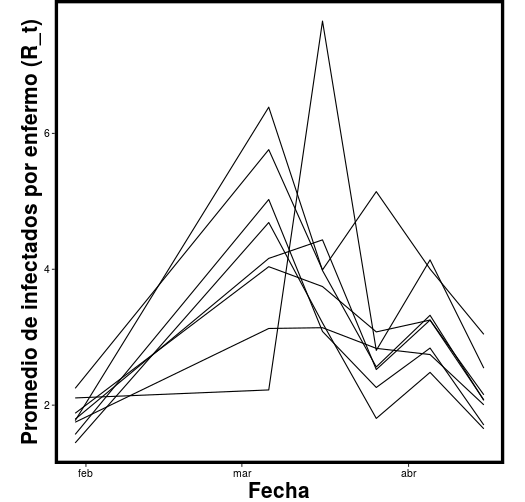
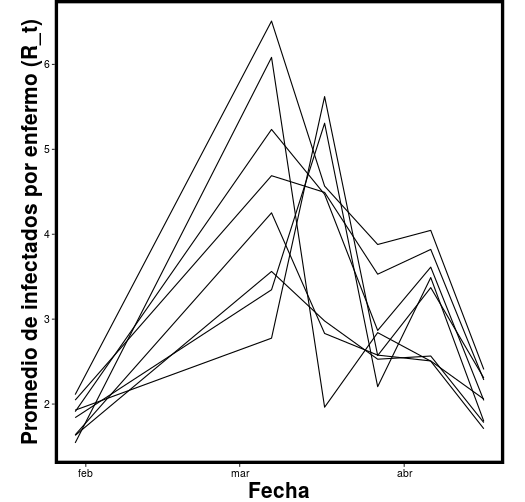
Actualización 2020-05-10 lenta

diff --git a/etiquetas/estados/index.html b/etiquetas/estados/index.html
@@ -352,8 +352,8 @@
             <h3>No se ha detenido la epidemia</h3>
             <p class="lead">
               <p>Las epidemias avanzan porque la enfermedad se transmite de una persona a otra. La R efectiva (R_t) es el número promedio de gente contagiada por cada persona que se enferma. Si la R efectiva es más de uno los casos aumentan, mientras que si la R efectiva es menos de uno cada vez hay menos casos.</p>
-<p>Esta gráfica muestra como la R efectiva se ha comportado en los estados con al menos 500 casos confirmados. La línea más gruesa muestra el mejor estimado (mediana) y el área sombreada representa el rango más probable de valores (intervalo modal de 90%). Los estimados se recalculan cada noche para todas las fechas con los datos más recientes.</p>
-<p>De acuerdo a esta métrica, Baja California ha sido la entidad más exitosa en mitigar la epidemia, consistente con lo que vemos en sus <a href="../../municipios#top_zm_casos">zonas metropolitanas</a>. En otras entidades ha disminuido pero mucho menos de lo necesario.</p>
+<p>Lograr una tasa de contagios por contagiado de menos de uno es la única manera en que la cantidad de casos disminuya. En otras palabras, un R efectiva menor a uno indica que se pasó el pico epidémico. De acuerdo a esta métrica, varios estados han mostrado una disminución en el número de contagios por caso, pero en ningún caso la R efeciva es menor a uno, indicando que no se ha pasado el pico epidémico.</p>
+<p>Esta gráfica muestra la R efectiva en estados con al menos 500 casos confirmados. La línea más gruesa muestra el mejor estimado (mediana) y el área sombreada representa el rango más probable de valores (intervalo modal de 90%). Los estimados se actualizan cada noche con los datos más recientes. Debido al <a href="../../clinicos#">retraso</a> en la detección de casos aunque sólo podemos estimar la R efectiva hasta hace 5 días.</p>
 <p>Este análisis se basa en <a href="https://rt.live/" target="_blank">rt.live</a> que calcula R_t para EEUU. El código para estimar la R efectiva en México está <a href="https://github.com/coronamex/visualizando/blob/master/estados/rt.live.ipynb" target="_blank">aquí</a> y los estimados <a href="https://raw.githubusercontent.com/coronamex/visualizando/master/estimados/rt_live_estimados.csv" target="_blank"> aquí</a>.</p>
             </p>
               

diff --git a/etiquetas/estimados/index.html b/etiquetas/estimados/index.html
@@ -329,8 +329,8 @@
             <h3>No se ha detenido la epidemia</h3>
             <p class="lead">
               <p>Las epidemias avanzan porque la enfermedad se transmite de una persona a otra. La R efectiva (R_t) es el número promedio de gente contagiada por cada persona que se enferma. Si la R efectiva es más de uno los casos aumentan, mientras que si la R efectiva es menos de uno cada vez hay menos casos.</p>
-<p>Esta gráfica muestra como la R efectiva se ha comportado en los estados con al menos 500 casos confirmados. La línea más gruesa muestra el mejor estimado (mediana) y el área sombreada representa el rango más probable de valores (intervalo modal de 90%). Los estimados se recalculan cada noche para todas las fechas con los datos más recientes.</p>
-<p>De acuerdo a esta métrica, Baja California ha sido la entidad más exitosa en mitigar la epidemia, consistente con lo que vemos en sus <a href="../../municipios#top_zm_casos">zonas metropolitanas</a>. En otras entidades ha disminuido pero mucho menos de lo necesario.</p>
+<p>Lograr una tasa de contagios por contagiado de menos de uno es la única manera en que la cantidad de casos disminuya. En otras palabras, un R efectiva menor a uno indica que se pasó el pico epidémico. De acuerdo a esta métrica, varios estados han mostrado una disminución en el número de contagios por caso, pero en ningún caso la R efeciva es menor a uno, indicando que no se ha pasado el pico epidémico.</p>
+<p>Esta gráfica muestra la R efectiva en estados con al menos 500 casos confirmados. La línea más gruesa muestra el mejor estimado (mediana) y el área sombreada representa el rango más probable de valores (intervalo modal de 90%). Los estimados se actualizan cada noche con los datos más recientes. Debido al <a href="../../clinicos#">retraso</a> en la detección de casos aunque sólo podemos estimar la R efectiva hasta hace 5 días.</p>
 <p>Este análisis se basa en <a href="https://rt.live/" target="_blank">rt.live</a> que calcula R_t para EEUU. El código para estimar la R efectiva en México está <a href="https://github.com/coronamex/visualizando/blob/master/estados/rt.live.ipynb" target="_blank">aquí</a> y los estimados <a href="https://raw.githubusercontent.com/coronamex/visualizando/master/estimados/rt_live_estimados.csv" target="_blank"> aquí</a>.</p>
             </p>
               

diff --git a/etiquetas/modelo/index.html b/etiquetas/modelo/index.html
@@ -402,8 +402,8 @@
             <h3>No se ha detenido la epidemia</h3>
             <p class="lead">
               <p>Las epidemias avanzan porque la enfermedad se transmite de una persona a otra. La R efectiva (R_t) es el número promedio de gente contagiada por cada persona que se enferma. Si la R efectiva es más de uno los casos aumentan, mientras que si la R efectiva es menos de uno cada vez hay menos casos.</p>
-<p>Esta gráfica muestra como la R efectiva se ha comportado en los estados con al menos 500 casos confirmados. La línea más gruesa muestra el mejor estimado (mediana) y el área sombreada representa el rango más probable de valores (intervalo modal de 90%). Los estimados se recalculan cada noche para todas las fechas con los datos más recientes.</p>
-<p>De acuerdo a esta métrica, Baja California ha sido la entidad más exitosa en mitigar la epidemia, consistente con lo que vemos en sus <a href="../../municipios#top_zm_casos">zonas metropolitanas</a>. En otras entidades ha disminuido pero mucho menos de lo necesario.</p>
+<p>Lograr una tasa de contagios por contagiado de menos de uno es la única manera en que la cantidad de casos disminuya. En otras palabras, un R efectiva menor a uno indica que se pasó el pico epidémico. De acuerdo a esta métrica, varios estados han mostrado una disminución en el número de contagios por caso, pero en ningún caso la R efeciva es menor a uno, indicando que no se ha pasado el pico epidémico.</p>
+<p>Esta gráfica muestra la R efectiva en estados con al menos 500 casos confirmados. La línea más gruesa muestra el mejor estimado (mediana) y el área sombreada representa el rango más probable de valores (intervalo modal de 90%). Los estimados se actualizan cada noche con los datos más recientes. Debido al <a href="../../clinicos#">retraso</a> en la detección de casos aunque sólo podemos estimar la R efectiva hasta hace 5 días.</p>
 <p>Este análisis se basa en <a href="https://rt.live/" target="_blank">rt.live</a> que calcula R_t para EEUU. El código para estimar la R efectiva en México está <a href="https://github.com/coronamex/visualizando/blob/master/estados/rt.live.ipynb" target="_blank">aquí</a> y los estimados <a href="https://raw.githubusercontent.com/coronamex/visualizando/master/estimados/rt_live_estimados.csv" target="_blank"> aquí</a>.</p>
             </p>
               

diff --git a/etiquetas/serie_tiempo/index.html b/etiquetas/serie_tiempo/index.html
@@ -500,8 +500,8 @@
             <h3>No se ha detenido la epidemia</h3>
             <p class="lead">
               <p>Las epidemias avanzan porque la enfermedad se transmite de una persona a otra. La R efectiva (R_t) es el número promedio de gente contagiada por cada persona que se enferma. Si la R efectiva es más de uno los casos aumentan, mientras que si la R efectiva es menos de uno cada vez hay menos casos.</p>
-<p>Esta gráfica muestra como la R efectiva se ha comportado en los estados con al menos 500 casos confirmados. La línea más gruesa muestra el mejor estimado (mediana) y el área sombreada representa el rango más probable de valores (intervalo modal de 90%). Los estimados se recalculan cada noche para todas las fechas con los datos más recientes.</p>
-<p>De acuerdo a esta métrica, Baja California ha sido la entidad más exitosa en mitigar la epidemia, consistente con lo que vemos en sus <a href="../../municipios#top_zm_casos">zonas metropolitanas</a>. En otras entidades ha disminuido pero mucho menos de lo necesario.</p>
+<p>Lograr una tasa de contagios por contagiado de menos de uno es la única manera en que la cantidad de casos disminuya. En otras palabras, un R efectiva menor a uno indica que se pasó el pico epidémico. De acuerdo a esta métrica, varios estados han mostrado una disminución en el número de contagios por caso, pero en ningún caso la R efeciva es menor a uno, indicando que no se ha pasado el pico epidémico.</p>
+<p>Esta gráfica muestra la R efectiva en estados con al menos 500 casos confirmados. La línea más gruesa muestra el mejor estimado (mediana) y el área sombreada representa el rango más probable de valores (intervalo modal de 90%). Los estimados se actualizan cada noche con los datos más recientes. Debido al <a href="../../clinicos#">retraso</a> en la detección de casos aunque sólo podemos estimar la R efectiva hasta hace 5 días.</p>
 <p>Este análisis se basa en <a href="https://rt.live/" target="_blank">rt.live</a> que calcula R_t para EEUU. El código para estimar la R efectiva en México está <a href="https://github.com/coronamex/visualizando/blob/master/estados/rt.live.ipynb" target="_blank">aquí</a> y los estimados <a href="https://raw.githubusercontent.com/coronamex/visualizando/master/estimados/rt_live_estimados.csv" target="_blank"> aquí</a>.</p>
             </p>
               

diff --git a/secciones/estados/index.html b/secciones/estados/index.html
@@ -352,8 +352,8 @@
             <h3>No se ha detenido la epidemia</h3>
             <p class="lead">
               <p>Las epidemias avanzan porque la enfermedad se transmite de una persona a otra. La R efectiva (R_t) es el número promedio de gente contagiada por cada persona que se enferma. Si la R efectiva es más de uno los casos aumentan, mientras que si la R efectiva es menos de uno cada vez hay menos casos.</p>
-<p>Esta gráfica muestra como la R efectiva se ha comportado en los estados con al menos 500 casos confirmados. La línea más gruesa muestra el mejor estimado (mediana) y el área sombreada representa el rango más probable de valores (intervalo modal de 90%). Los estimados se recalculan cada noche para todas las fechas con los datos más recientes.</p>
-<p>De acuerdo a esta métrica, Baja California ha sido la entidad más exitosa en mitigar la epidemia, consistente con lo que vemos en sus <a href="../../municipios#top_zm_casos">zonas metropolitanas</a>. En otras entidades ha disminuido pero mucho menos de lo necesario.</p>
+<p>Lograr una tasa de contagios por contagiado de menos de uno es la única manera en que la cantidad de casos disminuya. En otras palabras, un R efectiva menor a uno indica que se pasó el pico epidémico. De acuerdo a esta métrica, varios estados han mostrado una disminución en el número de contagios por caso, pero en ningún caso la R efeciva es menor a uno, indicando que no se ha pasado el pico epidémico.</p>
+<p>Esta gráfica muestra la R efectiva en estados con al menos 500 casos confirmados. La línea más gruesa muestra el mejor estimado (mediana) y el área sombreada representa el rango más probable de valores (intervalo modal de 90%). Los estimados se actualizan cada noche con los datos más recientes. Debido al <a href="../../clinicos#">retraso</a> en la detección de casos aunque sólo podemos estimar la R efectiva hasta hace 5 días.</p>
 <p>Este análisis se basa en <a href="https://rt.live/" target="_blank">rt.live</a> que calcula R_t para EEUU. El código para estimar la R efectiva en México está <a href="https://github.com/coronamex/visualizando/blob/master/estados/rt.live.ipynb" target="_blank">aquí</a> y los estimados <a href="https://raw.githubusercontent.com/coronamex/visualizando/master/estimados/rt_live_estimados.csv" target="_blank"> aquí</a>.</p>
             </p>
               

diff --git a/secciones/principal/index.html b/secciones/principal/index.html
@@ -546,8 +546,8 @@
             <h3>No se ha detenido la epidemia</h3>
             <p class="lead">
               <p>Las epidemias avanzan porque la enfermedad se transmite de una persona a otra. La R efectiva (R_t) es el número promedio de gente contagiada por cada persona que se enferma. Si la R efectiva es más de uno los casos aumentan, mientras que si la R efectiva es menos de uno cada vez hay menos casos.</p>
-<p>Esta gráfica muestra como la R efectiva se ha comportado en los estados con al menos 500 casos confirmados. La línea más gruesa muestra el mejor estimado (mediana) y el área sombreada representa el rango más probable de valores (intervalo modal de 90%). Los estimados se recalculan cada noche para todas las fechas con los datos más recientes.</p>
-<p>De acuerdo a esta métrica, Baja California ha sido la entidad más exitosa en mitigar la epidemia, consistente con lo que vemos en sus <a href="../../municipios#top_zm_casos">zonas metropolitanas</a>. En otras entidades ha disminuido pero mucho menos de lo necesario.</p>
+<p>Lograr una tasa de contagios por contagiado de menos de uno es la única manera en que la cantidad de casos disminuya. En otras palabras, un R efectiva menor a uno indica que se pasó el pico epidémico. De acuerdo a esta métrica, varios estados han mostrado una disminución en el número de contagios por caso, pero en ningún caso la R efeciva es menor a uno, indicando que no se ha pasado el pico epidémico.</p>
+<p>Esta gráfica muestra la R efectiva en estados con al menos 500 casos confirmados. La línea más gruesa muestra el mejor estimado (mediana) y el área sombreada representa el rango más probable de valores (intervalo modal de 90%). Los estimados se actualizan cada noche con los datos más recientes. Debido al <a href="../../clinicos#">retraso</a> en la detección de casos aunque sólo podemos estimar la R efectiva hasta hace 5 días.</p>
 <p>Este análisis se basa en <a href="https://rt.live/" target="_blank">rt.live</a> que calcula R_t para EEUU. El código para estimar la R efectiva en México está <a href="https://github.com/coronamex/visualizando/blob/master/estados/rt.live.ipynb" target="_blank">aquí</a> y los estimados <a href="https://raw.githubusercontent.com/coronamex/visualizando/master/estimados/rt_live_estimados.csv" target="_blank"> aquí</a>.</p>
             </p>
               

diff --git a/estados/index.html b/estados/index.html
@@ -352,8 +352,8 @@
             <h3>No se ha detenido la epidemia</h3>
             <p class="lead">
               <p>Las epidemias avanzan porque la enfermedad se transmite de una persona a otra. La R efectiva (R_t) es el número promedio de gente contagiada por cada persona que se enferma. Si la R efectiva es más de uno los casos aumentan, mientras que si la R efectiva es menos de uno cada vez hay menos casos.</p>
-<p>Esta gráfica muestra como la R efectiva se ha comportado en los estados con al menos 500 casos confirmados. La línea más gruesa muestra el mejor estimado (mediana) y el área sombreada representa el rango más probable de valores (intervalo modal de 90%). Los estimados se recalculan cada noche para todas las fechas con los datos más recientes.</p>
-<p>De acuerdo a esta métrica, Baja California ha sido la entidad más exitosa en mitigar la epidemia, consistente con lo que vemos en sus <a href="../municipios#top_zm_casos">zonas metropolitanas</a>. En otras entidades ha disminuido pero mucho menos de lo necesario.</p>
+<p>Lograr una tasa de contagios por contagiado de menos de uno es la única manera en que la cantidad de casos disminuya. En otras palabras, un R efectiva menor a uno indica que se pasó el pico epidémico. De acuerdo a esta métrica, varios estados han mostrado una disminución en el número de contagios por caso, pero en ningún caso la R efeciva es menor a uno, indicando que no se ha pasado el pico epidémico.</p>
+<p>Esta gráfica muestra la R efectiva en estados con al menos 500 casos confirmados. La línea más gruesa muestra el mejor estimado (mediana) y el área sombreada representa el rango más probable de valores (intervalo modal de 90%). Los estimados se actualizan cada noche con los datos más recientes. Debido al <a href="../clinicos#">retraso</a> en la detección de casos aunque sólo podemos estimar la R efectiva hasta hace 5 días.</p>
 <p>Este análisis se basa en <a href="https://rt.live/" target="_blank">rt.live</a> que calcula R_t para EEUU. El código para estimar la R efectiva en México está <a href="https://github.com/coronamex/visualizando/blob/master/estados/rt.live.ipynb" target="_blank">aquí</a> y los estimados <a href="https://raw.githubusercontent.com/coronamex/visualizando/master/estimados/rt_live_estimados.csv" target="_blank"> aquí</a>.</p>
             </p>
               

diff --git a/index.html b/index.html
@@ -534,8 +534,8 @@
             <h3>No se ha detenido la epidemia</h3>
             <p class="lead">
               <p>Las epidemias avanzan porque la enfermedad se transmite de una persona a otra. La R efectiva (R_t) es el número promedio de gente contagiada por cada persona que se enferma. Si la R efectiva es más de uno los casos aumentan, mientras que si la R efectiva es menos de uno cada vez hay menos casos.</p>
-<p>Esta gráfica muestra como la R efectiva se ha comportado en los estados con al menos 500 casos confirmados. La línea más gruesa muestra el mejor estimado (mediana) y el área sombreada representa el rango más probable de valores (intervalo modal de 90%). Los estimados se recalculan cada noche para todas las fechas con los datos más recientes.</p>
-<p>De acuerdo a esta métrica, Baja California ha sido la entidad más exitosa en mitigar la epidemia, consistente con lo que vemos en sus <a href="./municipios#top_zm_casos">zonas metropolitanas</a>. En otras entidades ha disminuido pero mucho menos de lo necesario.</p>
+<p>Lograr una tasa de contagios por contagiado de menos de uno es la única manera en que la cantidad de casos disminuya. En otras palabras, un R efectiva menor a uno indica que se pasó el pico epidémico. De acuerdo a esta métrica, varios estados han mostrado una disminución en el número de contagios por caso, pero en ningún caso la R efeciva es menor a uno, indicando que no se ha pasado el pico epidémico.</p>
+<p>Esta gráfica muestra la R efectiva en estados con al menos 500 casos confirmados. La línea más gruesa muestra el mejor estimado (mediana) y el área sombreada representa el rango más probable de valores (intervalo modal de 90%). Los estimados se actualizan cada noche con los datos más recientes. Debido al <a href="./clinicos#">retraso</a> en la detección de casos aunque sólo podemos estimar la R efectiva hasta hace 5 días.</p>
 <p>Este análisis se basa en <a href="https://rt.live/" target="_blank">rt.live</a> que calcula R_t para EEUU. El código para estimar la R efectiva en México está <a href="https://github.com/coronamex/visualizando/blob/master/estados/rt.live.ipynb" target="_blank">aquí</a> y los estimados <a href="https://raw.githubusercontent.com/coronamex/visualizando/master/estimados/rt_live_estimados.csv" target="_blank"> aquí</a>.</p>
             </p>
               

diff --git a/estados/r_efectiva/index.html b/estados/r_efectiva/index.html
@@ -322,8 +322,8 @@
           <h2>No se ha detenido la epidemia</h2>
           <p class="lead">
             <p>Las epidemias avanzan porque la enfermedad se transmite de una persona a otra. La R efectiva (R_t) es el número promedio de gente contagiada por cada persona que se enferma. Si la R efectiva es más de uno los casos aumentan, mientras que si la R efectiva es menos de uno cada vez hay menos casos.</p>
-<p>Esta gráfica muestra como la R efectiva se ha comportado en los estados con al menos 500 casos confirmados. La línea más gruesa muestra el mejor estimado (mediana) y el área sombreada representa el rango más probable de valores (intervalo modal de 90%). Los estimados se recalculan cada noche para todas las fechas con los datos más recientes.</p>
-<p>De acuerdo a esta métrica, Baja California ha sido la entidad más exitosa en mitigar la epidemia, consistente con lo que vemos en sus <a href="../../municipios#top_zm_casos">zonas metropolitanas</a>. En otras entidades ha disminuido pero mucho menos de lo necesario.</p>
+<p>Lograr una tasa de contagios por contagiado de menos de uno es la única manera en que la cantidad de casos disminuya. En otras palabras, un R efectiva menor a uno indica que se pasó el pico epidémico. De acuerdo a esta métrica, varios estados han mostrado una disminución en el número de contagios por caso, pero en ningún caso la R efeciva es menor a uno, indicando que no se ha pasado el pico epidémico.</p>
+<p>Esta gráfica muestra la R efectiva en estados con al menos 500 casos confirmados. La línea más gruesa muestra el mejor estimado (mediana) y el área sombreada representa el rango más probable de valores (intervalo modal de 90%). Los estimados se actualizan cada noche con los datos más recientes. Debido al <a href="../../clinicos#">retraso</a> en la detección de casos aunque sólo podemos estimar la R efectiva hasta hace 5 días.</p>
 <p>Este análisis se basa en <a href="https://rt.live/" target="_blank">rt.live</a> que calcula R_t para EEUU. El código para estimar la R efectiva en México está <a href="https://github.com/coronamex/visualizando/blob/master/estados/rt.live.ipynb" target="_blank">aquí</a> y los estimados <a href="https://raw.githubusercontent.com/coronamex/visualizando/master/estimados/rt_live_estimados.csv" target="_blank"> aquí</a>.</p>
           </p>
             
